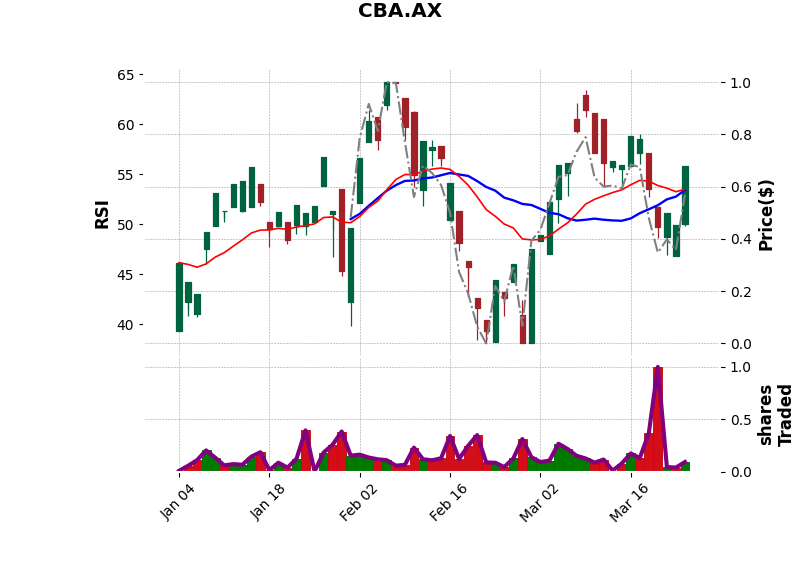
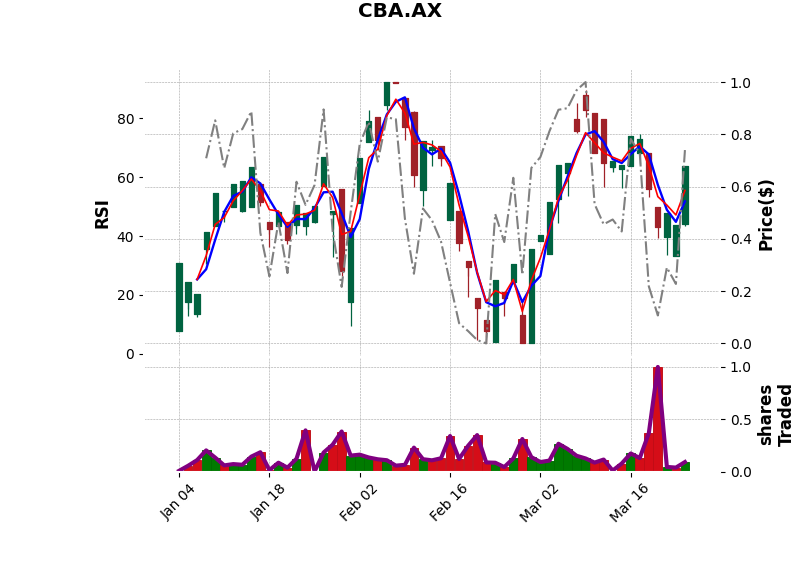
Doen with step 1 candle stick, next plotly and step 2

diff --git a/v0.1/viz_data_mplfinance.py b/v0.1/viz_data_mplfinance.py
@@ -1,0 +1,89 @@
+from Tools.scripts.generate_re_casefix import alpha
+from matplotlib.pyplot import ylabel
+# pip install Ta-Lib wasn't working. Giving error: building 'talib._ta_lib' extension
+#       error: Microsoft Visual C++ 14.0 or greater is required. Get it with "Microsoft C++ Build Tools": https://visualstudio.microsoft.com/visual-cpp-build-tools/
+#       [end of output]
+#
+#   note: This error originates from a subprocess, and is likely not a problem with pip.
+#   ERROR: Failed building wheel for TA-Lib
+# Failed to build TA-Lib
+# ERROR: ERROR: Failed to build installable wheels for some pyproject.toml based projects (TA-Lib)
+
+# So I installed TA-lib .whl from https://github.com/cgohlke/talib-build/?tab=readme-ov-file and did pip install TA_Lib‑0.4.0‑cp39‑cp39‑win_amd64.whl which worked. otherwise I'd have needed to install visual studio and I am not gonna get that peice of crap on my machine.
+import talib
+
+print("working")
+from get_data import get_data
+import mplfinance as fplt
+import pandas as pd
+import os
+
+ticker = 'CBA.AX'
+feature_columns = ['Open', 'Close', 'High', 'Low', 'Volume']
+start_date = '2021-01-01'
+end_date = '2021-03-30'
+
+data_df = get_data(ticker, feature_columns, start_date, end_date, save_data=True, split_by_date=True)
+
+
+def plot_candlestick(data_df):
+	# data_df = data_df.set_index('Date')
+	print("Candlestick Chart Styling from MPLFinance : {}".format(fplt.available_styles()))
+
+	trade_days_month = 20
+	# data_df['SMA'] = data_df['Close'].rolling(window=trade_days_month).mean()
+	# data_df['EMA'] = data_df['Close'].ewm(span=trade_days_month, adjust=False).mean()
+	# print(len(data_df))
+	# data_df.index = pd.to_datetime(data_df.index)
+	# data_df['RSI'] = ta.momentum.RSIIndicator(data_df['Close'], window=trade_days_month).rsi()
+	# print("I am RSI")
+	# print(data_df['RSI'])
+
+	data_df["SMA"] = talib.SMA(data_df.Close, timeperiod=trade_days_month)
+	data_df["RSI"] = talib.RSI(data_df.Close, timeperiod=trade_days_month)
+	data_df["EMA"] = talib.EMA(data_df.Close, timeperiod=trade_days_month)
+
+	print("TA-Lib Version : {}".format(talib.__version__))
+	ema_plt = fplt.make_addplot(data_df["EMA"], color='red', width=1.2)
+	sma_plt = fplt.make_addplot(data_df["SMA"], color='blue', width=1.7)
+	sma_plt_scatter = fplt.make_addplot(data_df["SMA"], scatter=True, markersize=100, marker='^', color='green',
+	                                    alpha=0.5)
+
+	rsi_plt = fplt.make_addplot(data_df["RSI"], color="grey", width=1.5, ylabel="RSI",
+	                            secondary_y=True, linestyle='dashdot')
+	volume = fplt.make_addplot(data_df["Volume"], color="purple",
+	                           panel=1
+	                           )
+	if not os.path.exists('images'):
+		os.makedirs('images')
+
+	mc = fplt.make_marketcolors(
+		up='tab:blue', down='tab:red',
+		edge='lime',
+		wick={'up': 'blue', 'down': 'red'},
+		volume='lawngreen',
+	)
+
+	s = fplt.make_mpf_style(base_mpl_style="ggplot", marketcolors=mc)
+
+	savefig = dict(fname=f"images/{ticker}.png", dpi=1000, pad_inches=0.75)
+
+	fplt.plot(
+		data_df,
+		type='candle',
+		#  Add extra plots on top of main candle stick chart. These are technical indicators.
+		addplot=[sma_plt, sma_plt_scatter, ema_plt, rsi_plt, volume],
+		style=s,
+		title=ticker,
+		ylabel='Price($)',
+		ylabel_lower='shares\nTraded',
+		volume=True,
+		mav=(3, 5, 7),
+		# savefig='images/candlestick.png',
+		savefig=savefig,
+
+		show_nontrading=False
+	)
+
+
+plot_candlestick(data_df)

diff --git a/v0.1/viz_data_plotly.py b/v0.1/viz_data_plotly.py
@@ -1,0 +1,57 @@
+from Tools.scripts.generate_re_casefix import alpha
+from matplotlib.pyplot import ylabel
+# pip install Ta-Lib wasn't working. Giving error: building 'talib._ta_lib' extension
+#       error: Microsoft Visual C++ 14.0 or greater is required. Get it with "Microsoft C++ Build Tools": https://visualstudio.microsoft.com/visual-cpp-build-tools/
+#       [end of output]
+#
+#   note: This error originates from a subprocess, and is likely not a problem with pip.
+#   ERROR: Failed building wheel for TA-Lib
+# Failed to build TA-Lib
+# ERROR: ERROR: Failed to build installable wheels for some pyproject.toml based projects (TA-Lib)
+
+# So I installed TA-lib .whl from https://github.com/cgohlke/talib-build/?tab=readme-ov-file and did pip install TA_Lib‑0.4.0‑cp39‑cp39‑win_amd64.whl which worked. otherwise I'd have needed to install visual studio and I am not gonna get that peice of crap on my machine.
+import talib
+
+print("working")
+from get_data import get_data
+# import mplfinance as fplt
+import pandas as pd
+import plotly.graph_objects as go
+import plotly
+import os
+
+# link to tutorial: https://coderzcolumn.com/tutorials/data-science/candlestick-chart-in-python-mplfinance-plotly-bokeh#2
+
+ticker = 'CBA.AX'
+feature_columns = ['Open', 'Close', 'High', 'Low', 'Volume']
+start_date = '2021-01-01'
+end_date = '2021-03-30'
+
+data_df = get_data(ticker, feature_columns, start_date, end_date, save_data=True, split_by_date=True)
+
+
+def plot_candlestick(data_df):
+	# data_df = data_df.set_index('Date')
+	# print("Candlestick Chart Styling from MPLFinance : {}".format(fplt.available_styles()))
+
+	trade_days_month = 20
+	# data_df['SMA'] = data_df['Close'].rolling(window=trade_days_month).mean()
+	# data_df['EMA'] = data_df['Close'].ewm(span=trade_days_month, adjust=False).mean()
+	# print(len(data_df))
+	# data_df.index = pd.to_datetime(data_df.index)
+	# data_df['RSI'] = ta.momentum.RSIIndicator(data_df['Close'], window=trade_days_month).rsi()
+	# print("I am RSI")
+	# print(data_df['RSI'])
+
+	data_df["SMA"] = talib.SMA(data_df.Close, timeperiod=trade_days_month)
+	data_df["RSI"] = talib.RSI(data_df.Close, timeperiod=trade_days_month)
+	data_df["EMA"] = talib.EMA(data_df.Close, timeperiod=trade_days_month)
+
+	print("TA-Lib Version : {}".format(talib.__version__))
+	print("Plotly Version : {}".format(plotly.__version__))
+
+	if not os.path.exists('images'):
+		os.makedirs('images')
+
+
+plot_candlestick(data_df)
